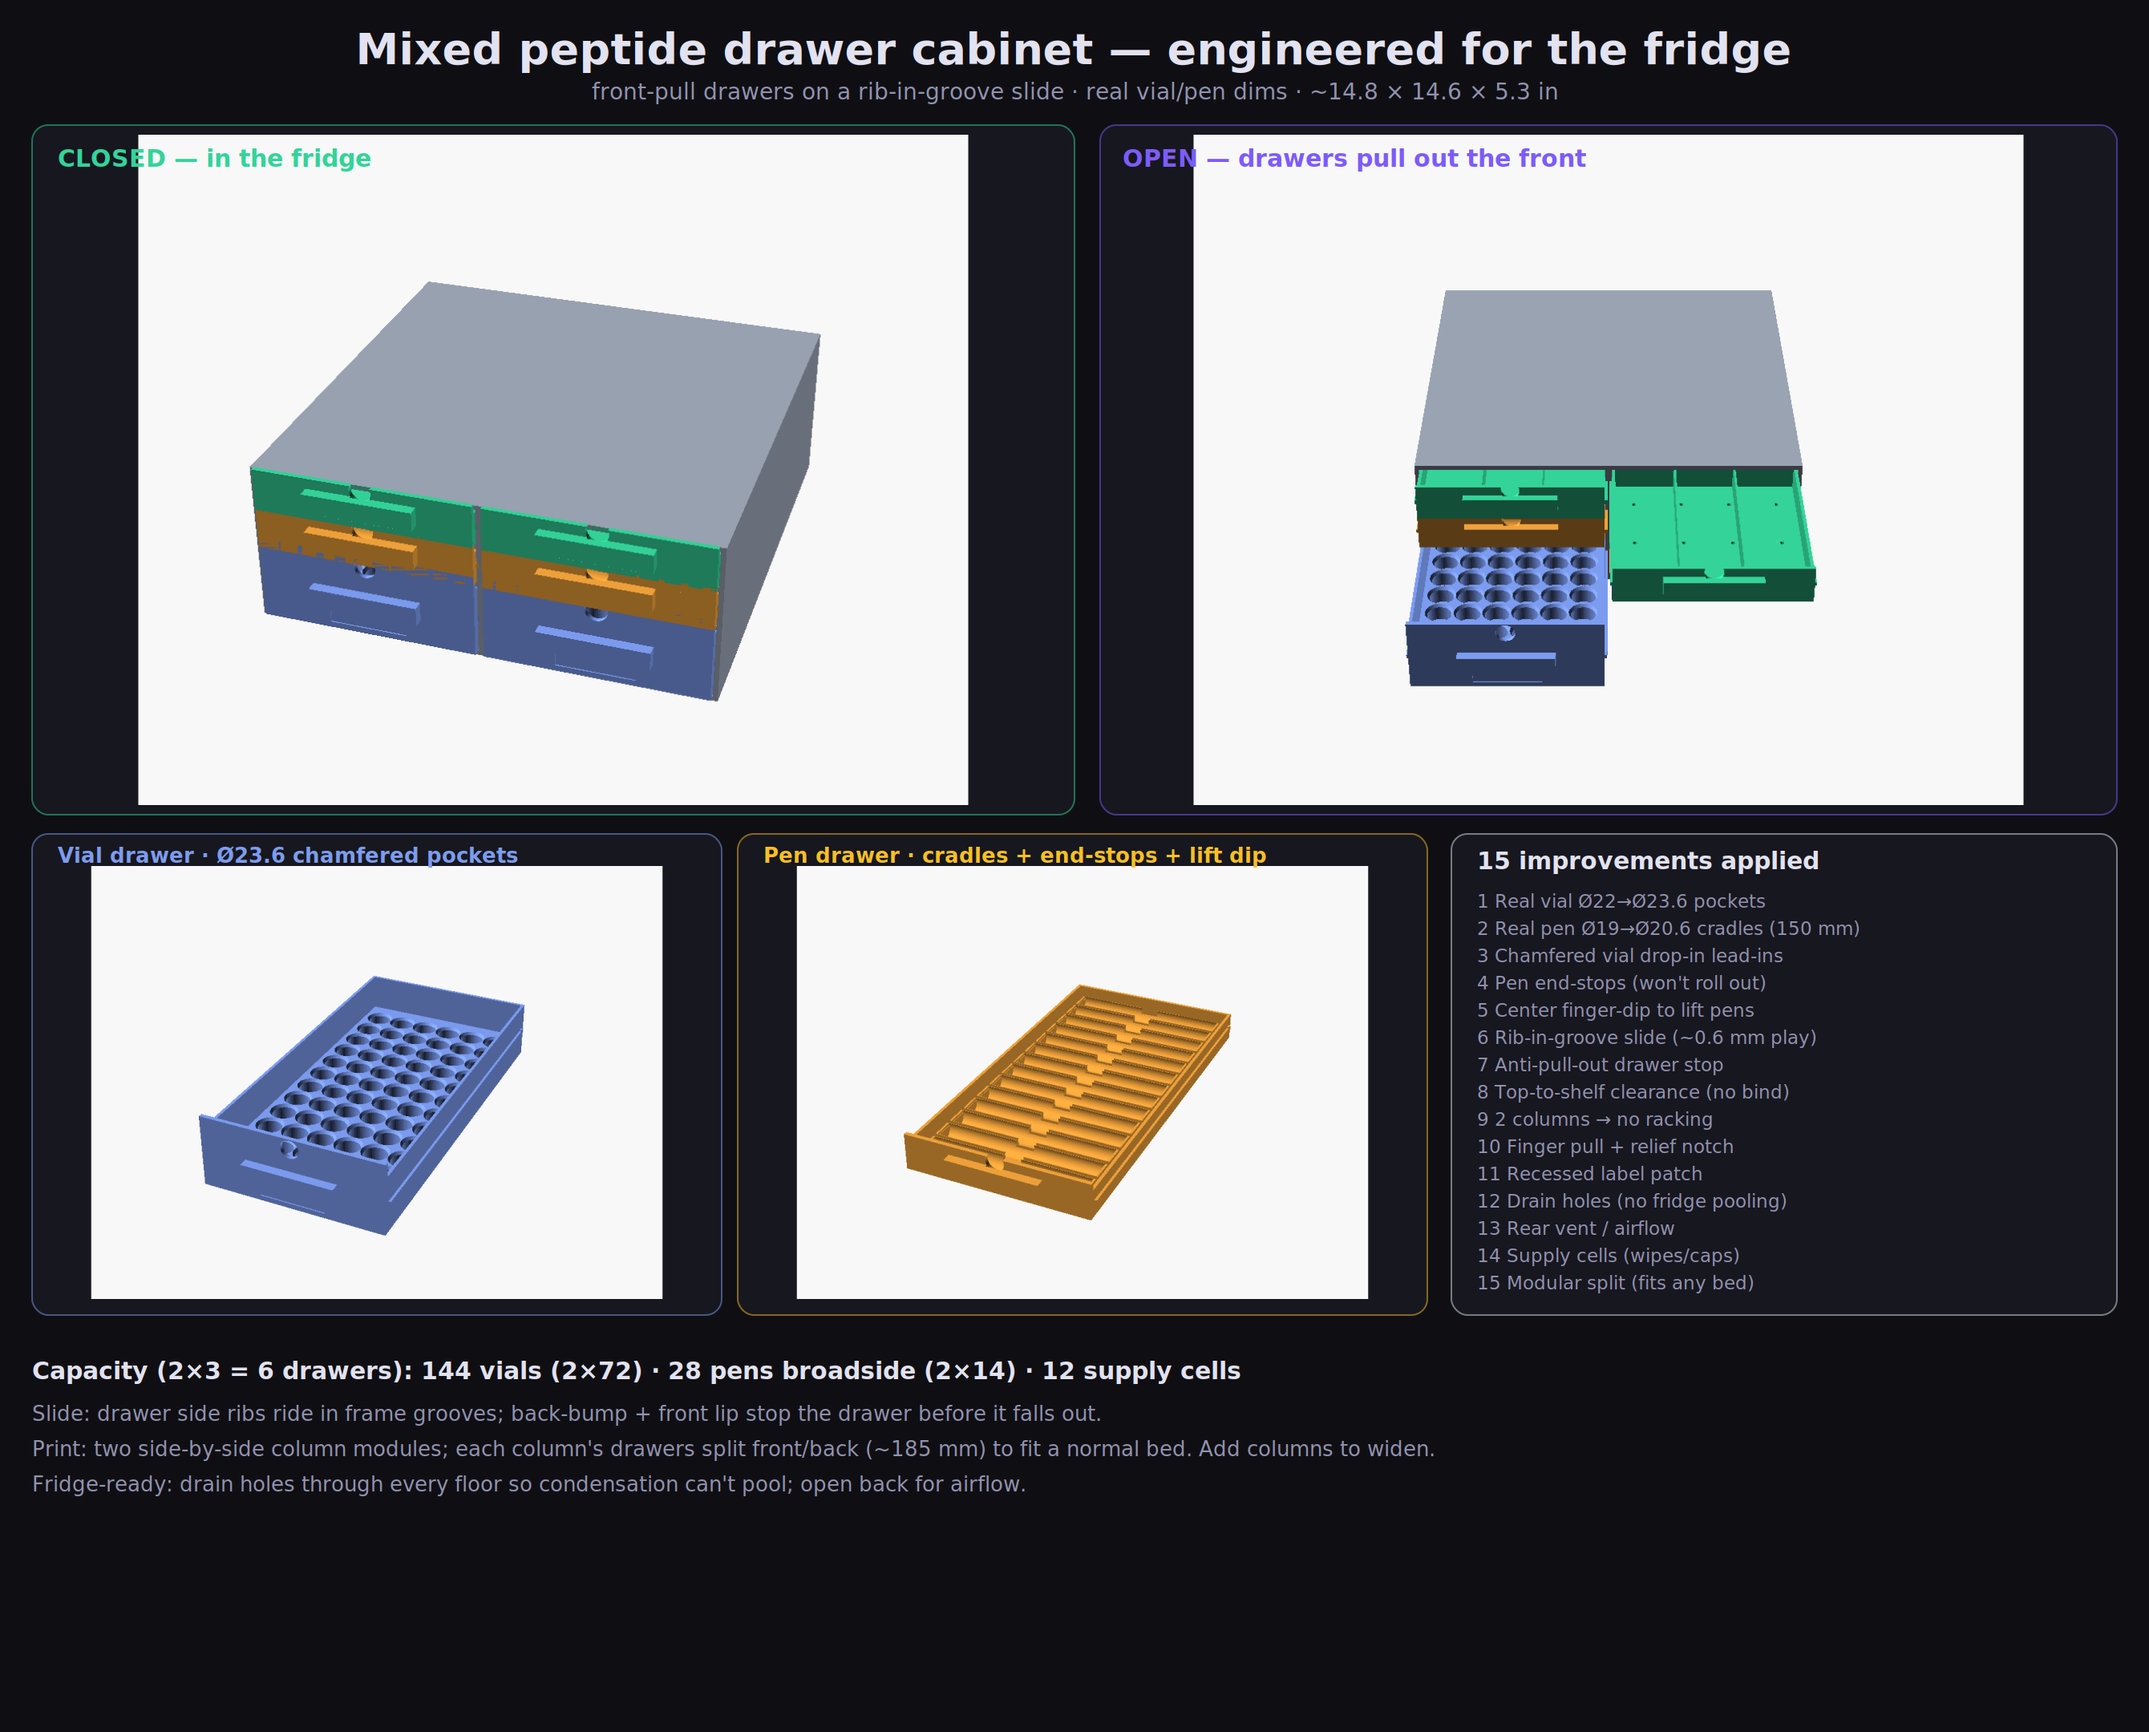
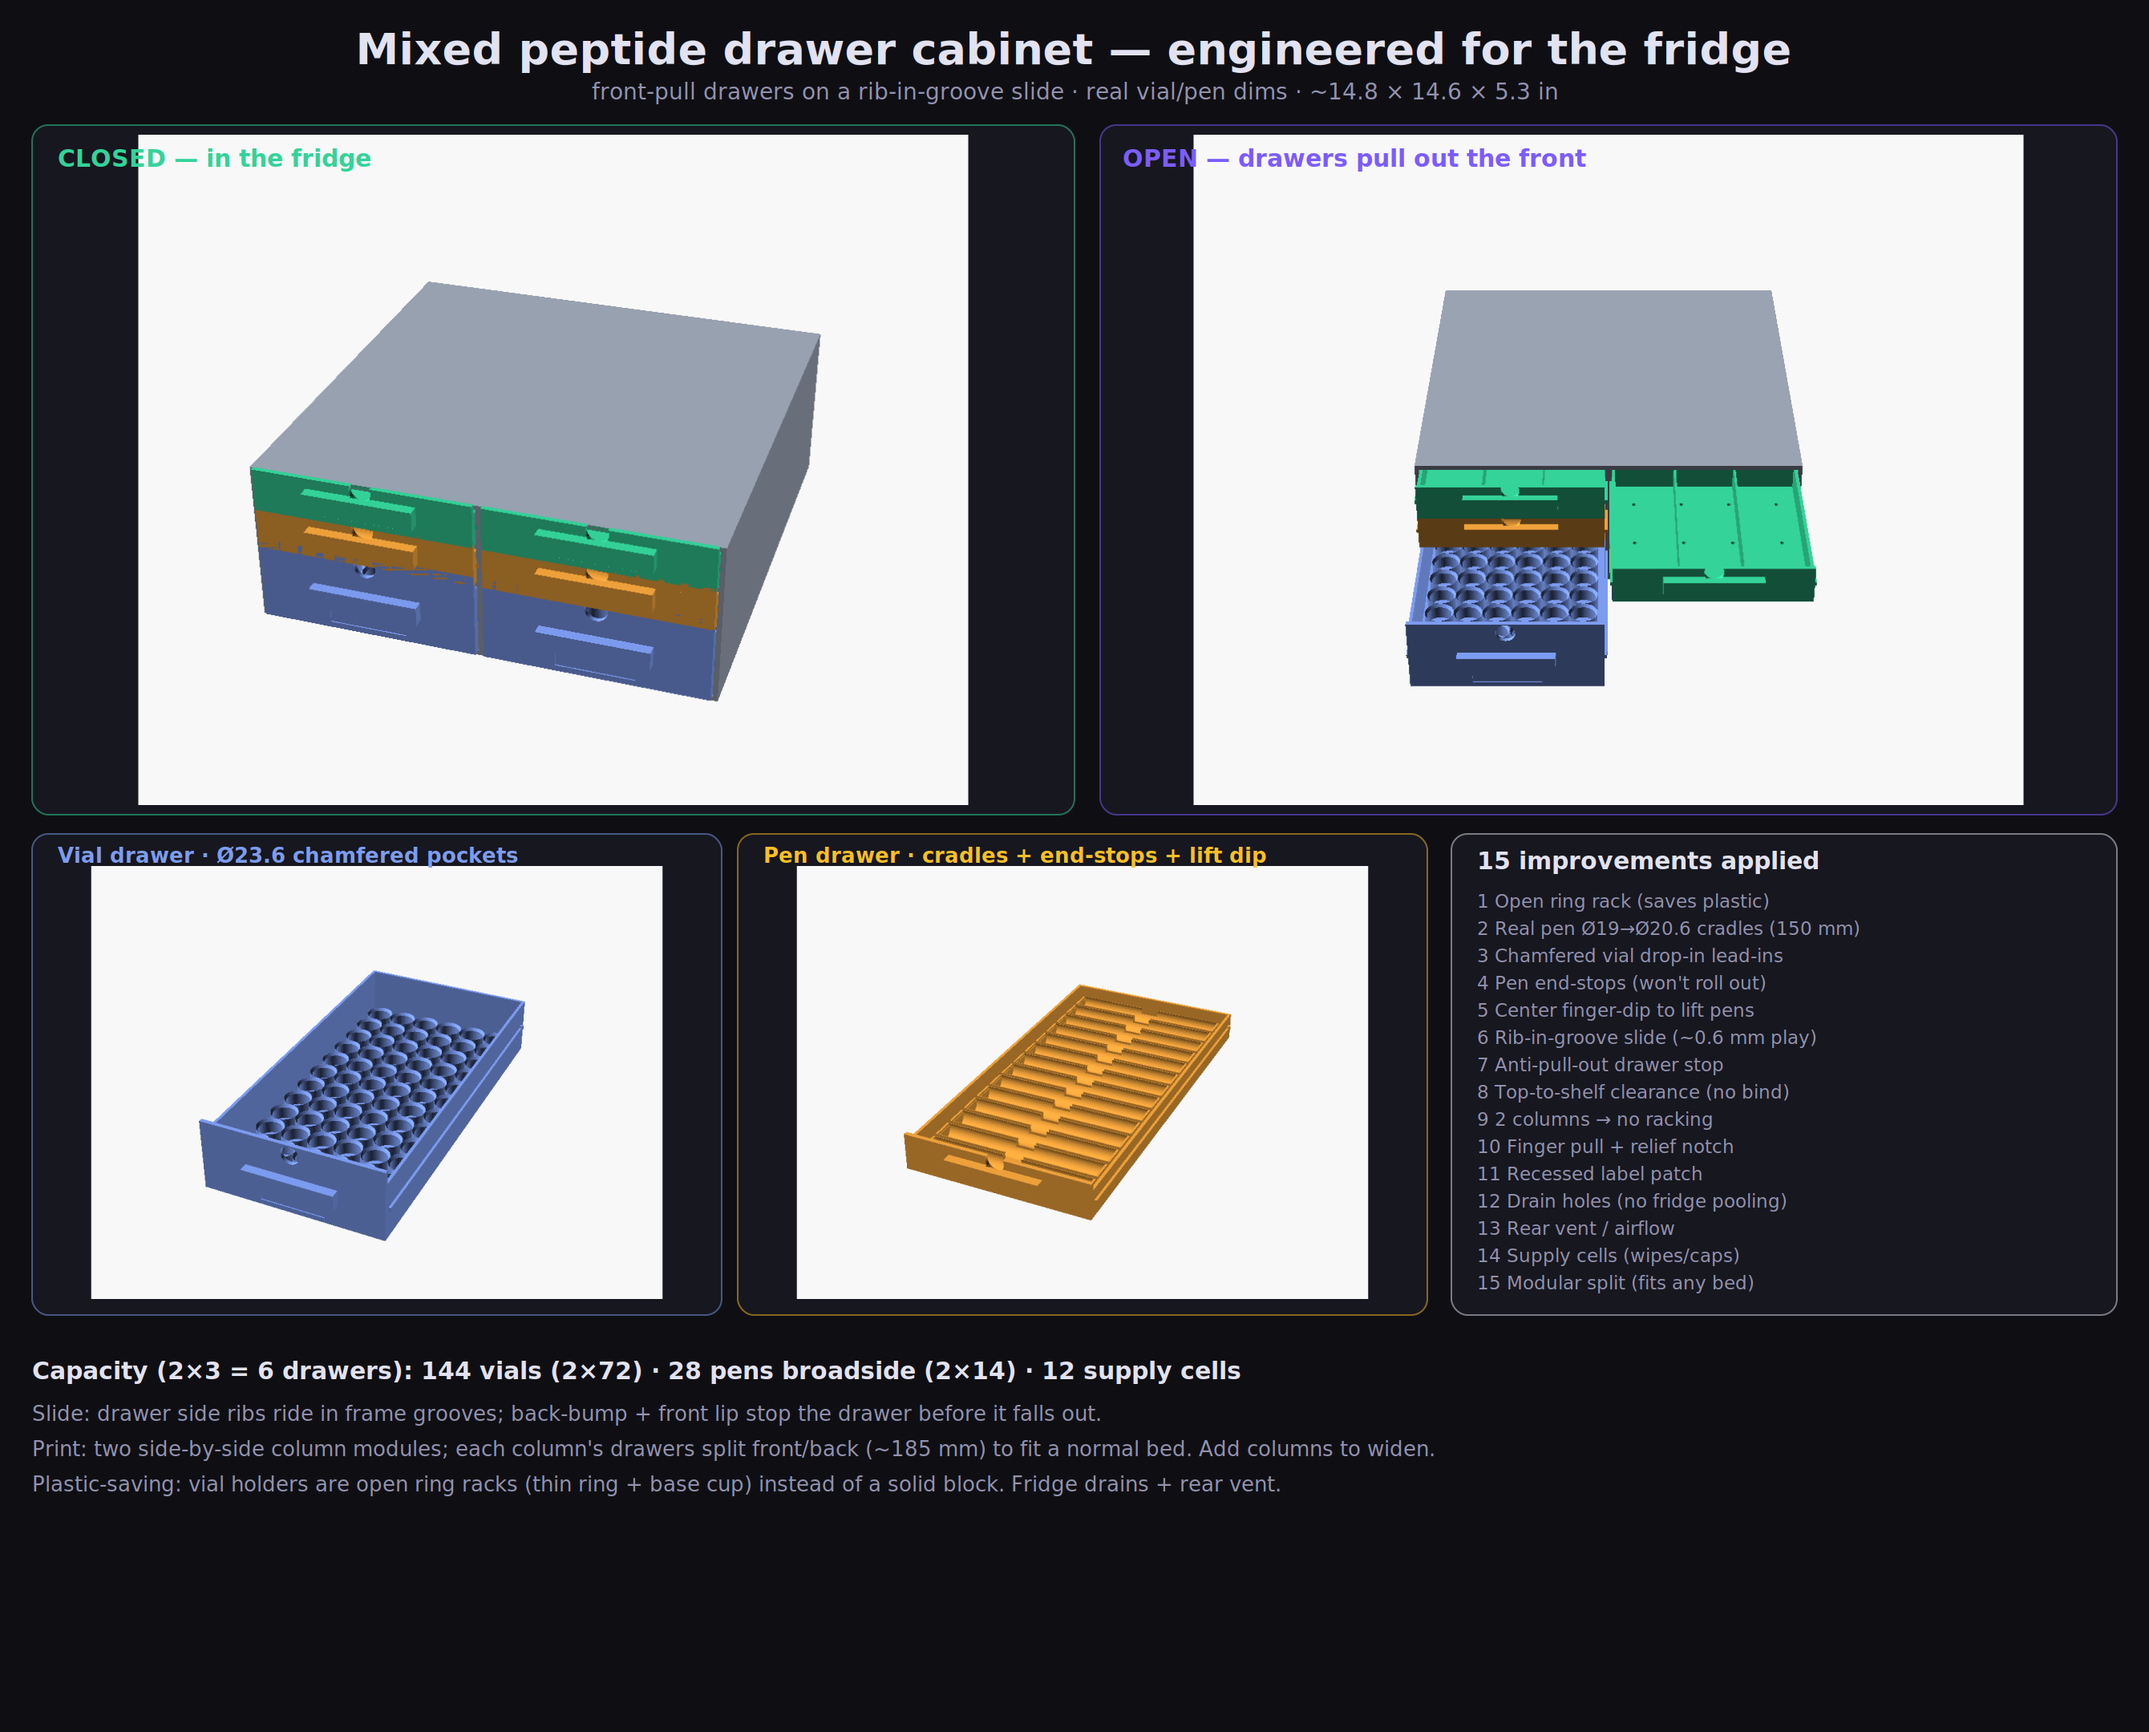
Vial holder -> open ring rack (saves plastic)
Replaced the solid drilled vial block with thin-walled rings (17mm grip) on a
floor cup/indent + drain per vial. Hollow between rings: much less plastic and
faster to print, same 72-vial capacity and anti-tip hold.

https://claude.ai/code/session_01UhH4BWfmpogLCmqpTTciYy

diff --git a/design/drawers/mixed/compose_mixed.py b/design/drawers/mixed/compose_mixed.py
@@ -18,7 +18,7 @@ panel(460,520,430,300,YEL); s.append(f'<image href="{PD}" x="466" y="540" width=
 # changelog
 cx=905; panel(cx,520,W-cx-20,300,INK)
 t(cx+16,542,"15 improvements applied",INK,15,"start","700")
-items=["1 Real vial Ø22→Ø23.6 pockets","2 Real pen Ø19→Ø20.6 cradles (150 mm)",
+items=["1 Open ring rack (saves plastic)","2 Real pen Ø19→Ø20.6 cradles (150 mm)",
  "3 Chamfered vial drop-in lead-ins","4 Pen end-stops (won't roll out)",
  "5 Center finger-dip to lift pens","6 Rib-in-groove slide (~0.6 mm play)",
  "7 Anti-pull-out drawer stop","8 Top-to-shelf clearance (no bind)",
@@ -31,7 +31,7 @@ for i,it in enumerate(items): t(cx+16,566+i*17,it,SUB,11.5)
 t(20,860,"Capacity (2×3 = 6 drawers):  144 vials (2×72)  ·  28 pens broadside (2×14)  ·  12 supply cells",INK,15,"start","600")
 t(20,886,"Slide: drawer side ribs ride in frame grooves; back-bump + front lip stop the drawer before it falls out.",SUB,13)
 t(20,908,"Print: two side-by-side column modules; each column's drawers split front/back (~185 mm) to fit a normal bed. Add columns to widen.",SUB,13)
-t(20,930,"Fridge-ready: drain holes through every floor so condensation can't pool; open back for airflow.",SUB,13)
+t(20,930,"Plastic-saving: vial holders are open ring racks (thin ring + base cup) instead of a solid block. Fridge drains + rear vent.",SUB,13)
 s.append('</svg>')
 cairosvg.svg2png(bytestring="\n".join(s).encode(),write_to="mixed-summary.png",output_width=W*2,output_height=H*2)
 print("ok")
